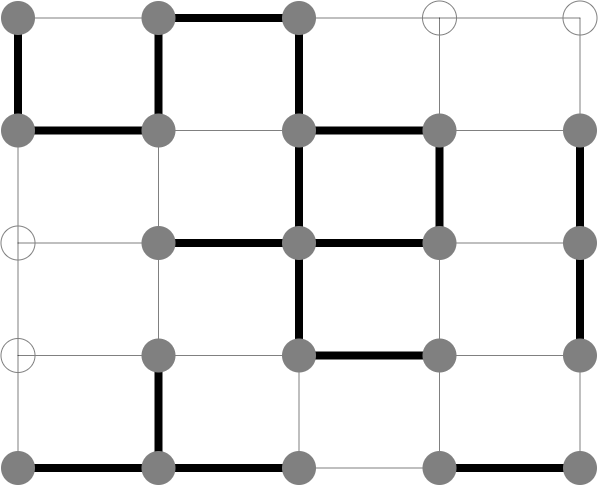
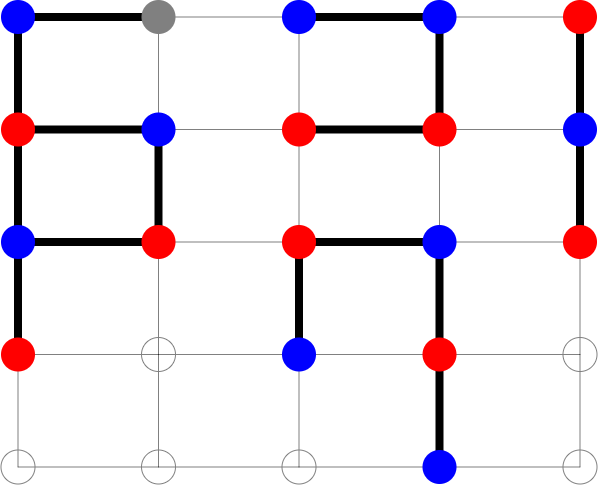
[Lab 6] Compulsory + (Homework / 3)

Changed region(s): [[0.0, 0.0, 1.0, 1.0], [0.0, 0.0, 0.2408, 0.0928]]

diff --git a/Lab6/src/main/java/org/example/lab6/DrawingPanel.java b/Lab6/src/main/java/org/example/lab6/DrawingPanel.java
@@ -41,7 +41,8 @@ public class DrawingPanel
 		double startX = (width - columns * cellWidth) / 2;
 		double startY = (height - rows * cellHeight) / 2;
 
-		addLinesToGrid(gridPane, cellWidth, cellHeight, startX, startY);
+		addLinesToGrid(gridPane, cellWidth, cellHeight, startX, startY, true);
+		addLinesToGrid(gridPane, cellWidth, cellHeight, startX, startY, false);
 		addCirclesToGrid(gridPane, cellWidth, cellHeight, startX, startY, circleRadius);
 		disableCirclesWithoutThickLineAdjacent();
 	}
@@ -69,34 +70,48 @@ public class DrawingPanel
 		return circle;
 	}
 
-	private static void addLinesToGrid(AnchorPane gridPane, double cellWidth, double cellHeight, double startX, double startY)
+	private static void addLinesToGrid(AnchorPane gridPane, double cellWidth, double cellHeight, double startX, double startY, boolean isHorizontal)
 	{
 		Random random = new Random();
-		for (int i = 0; i <= rows; i++)
+
+		int rowCount = rows;
+		int colCount = columns;
+		if (isHorizontal)
 		{
-			for (int j = 0; j < columns; j++)
-			{
-				double y = startY + (i * cellHeight);
-				double x1 = startX + (j * cellWidth);
-				double x2 = startX + ((j + 1) * cellWidth);
-				Line line = createLine(x1, y, x2, y, random.nextBoolean() ? THICKNESS_LARGE : THICKNESS_SMALL);
-				lines.add(line);
-				gridPane.getChildren().add(line);
-			}
+			rowCount = rows + 1;
+		}
+		else
+		{
+			colCount = columns + 1;
 		}
 
-		for (int j = 0; j <= columns; j++)
+		for (int i = 0; i < rowCount; i++)
 		{
-			for (int i = 0; i < rows; i++)
+			for (int j = 0; j < colCount; j++)
 			{
-				double x = startX + (j * cellWidth);
-				double y1 = startY + (i * cellHeight);
-				double y2 = startY + ((i + 1) * cellHeight);
-				Line line = createLine(x, y1, x, y2, random.nextBoolean() ? THICKNESS_LARGE : THICKNESS_SMALL);
-				lines.add(line);
-				gridPane.getChildren().add(line);
+				double x1, y1, x2, y2;
+				if (isHorizontal)
+				{
+					y1 = y2 = startY + (i * cellHeight);
+					x1 = startX + (j * cellWidth);
+					x2 = startX + ((j + 1) * cellWidth);
+				}
+				else
+				{
+					x1 = x2 = startX + (j * cellWidth);
+					y1 = startY + (i * cellHeight);
+					y2 = startY + ((i + 1) * cellHeight);
+				}
+				addLine(gridPane, x1, y1, x2, y2, random.nextBoolean() ? THICKNESS_LARGE : THICKNESS_SMALL);
 			}
 		}
+	}
+
+	private static void addLine(AnchorPane gridPane, double startX, double startY, double endX, double endY, double strokeWidth)
+	{
+		Line line = createLine(startX, startY, endX, endY, strokeWidth);
+		lines.add(line);
+		gridPane.getChildren().add(line);
 	}
 
 	private static Line createLine(double startX, double startY, double endX, double endY, double strokeWidth)
@@ -114,7 +129,6 @@ public class DrawingPanel
 			circle.setFill((Game.turn % 2 == 0) ? Game.PLAYER_2_COLOR : Game.PLAYER_1_COLOR);
 			Game.turn++;
 		}
-		disableCirclesWithoutThickLineAdjacent();
 	}
 
 	private static void disableCirclesWithoutThickLineAdjacent()
